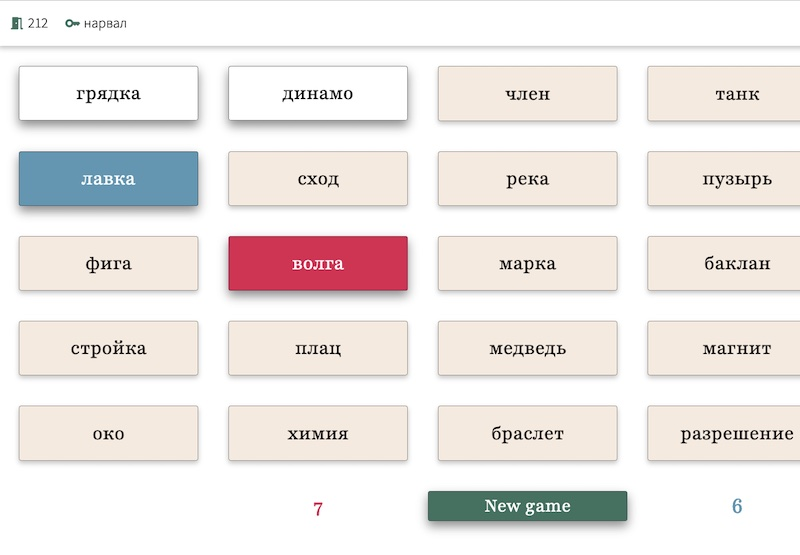
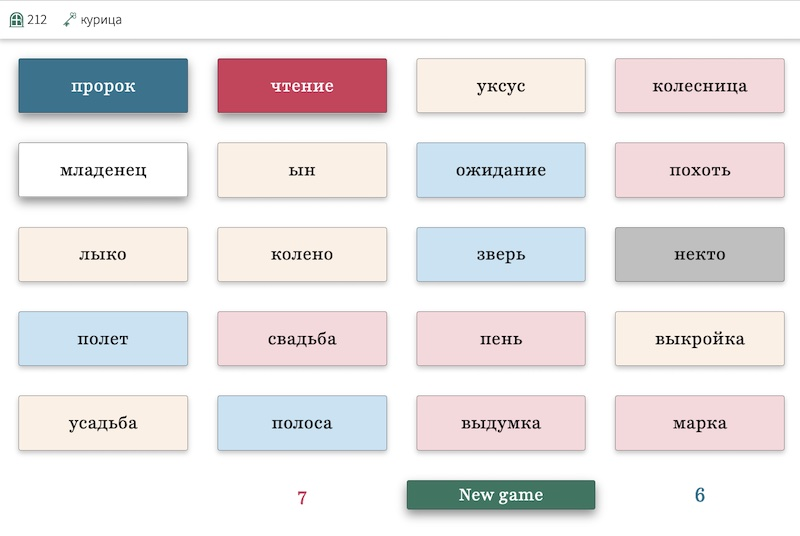
refactor: dimmer/normalize colors based on hsluv values

diff --git a/src/assets/base.css b/src/assets/base.css
@@ -2,12 +2,13 @@
   --vt-c-white: #ffffff;
   --vt-c-black: #181818;
 
-  --vt-c-baby-blue: #cee6f2;
-  --vt-c-beril-blue: #6fa1bb;
-  --vt-c-lilac: #f6ede3;
-  --vt-c-strawberry: #d2385a;
-  --vt-c-peach: #e3867d;
-  --vt-c-dark-sage: #507b6a;
+  /* https://www.hsluv.org/ */
+  --vt-c-blue: #467e98; /* 228 60 50 */
+  --vt-c-blue-light: #d0e6f4; /* 228 60 90 */
+  --vt-c-red: #c84c64; /* 4 60 50 */
+  --vt-c-red-light: #f4dde0; /* 4 60 90 */
+  --vt-c-green: #4b816d; /* 157 60 50 */
+  --vt-c-white-dark: #fbf2e9; /* 56 60 96 */
 
   --vt-c-divider-light-1: rgba(60, 60, 60, 0.29);
   --vt-c-divider-light-2: rgba(60, 60, 60, 0.12);
@@ -21,18 +22,18 @@
   --font-sans: 'Source Sans 3', sans-serif;
 
   --color-white: var(--vt-c-white);
-  --color-white-dark: var(--vt-c-lilac);
+  --color-white-dark: var(--vt-c-white-dark);
 
   --color-black: var(--vt-c-black);
   --color-black-light: var(--vt-c-divider-light-1);
 
-  --color-red: var(--vt-c-strawberry);
-  --color-red-light: var(--vt-c-peach);
+  --color-red: var(--vt-c-red);
+  --color-red-light: var(--vt-c-red-light);
 
-  --color-blue: var(--vt-c-beril-blue);
-  --color-blue-light: var(--vt-c-baby-blue);
+  --color-blue: var(--vt-c-blue);
+  --color-blue-light: var(--vt-c-blue-light);
 
-  --color-green: var(--vt-c-dark-sage);
+  --color-green: var(--vt-c-green);
 
   --color-text-dark: var(--vt-c-black);
   --color-text-light: var(--vt-c-white);

diff --git a/src/components/Card.vue b/src/components/Card.vue
@@ -91,7 +91,7 @@ article:hover, .open {
 
 /* red-closed */
 .card-5 {
-  color: var(--color-text-light);
+  color: var(--color-text-dark);
   background-color: var(--color-red-light);
 }
 

diff --git a/specs.md b/specs.md
@@ -28,14 +28,12 @@ Google Material Icons from https://icon-sets.iconify.design/ic/round-meeting-roo
 
 ### Colors
 
-- Baby Blue: #cee6f2
-- Beryl Blue: #6fa1bb
-- Lilac: #f6ede3
-- Peach: #e3867d
-- Strawberry: #d2385a;
-- Dark Sage: #507b6a;
+https://www.hsluv.org/
 
-Source: https://looka.com/blog/color-combinations/
+- Red: hue 4
+- Green: hue 157
+- Blue: hue 228
+- White: hue 56
 
 ## Sync algo
 
